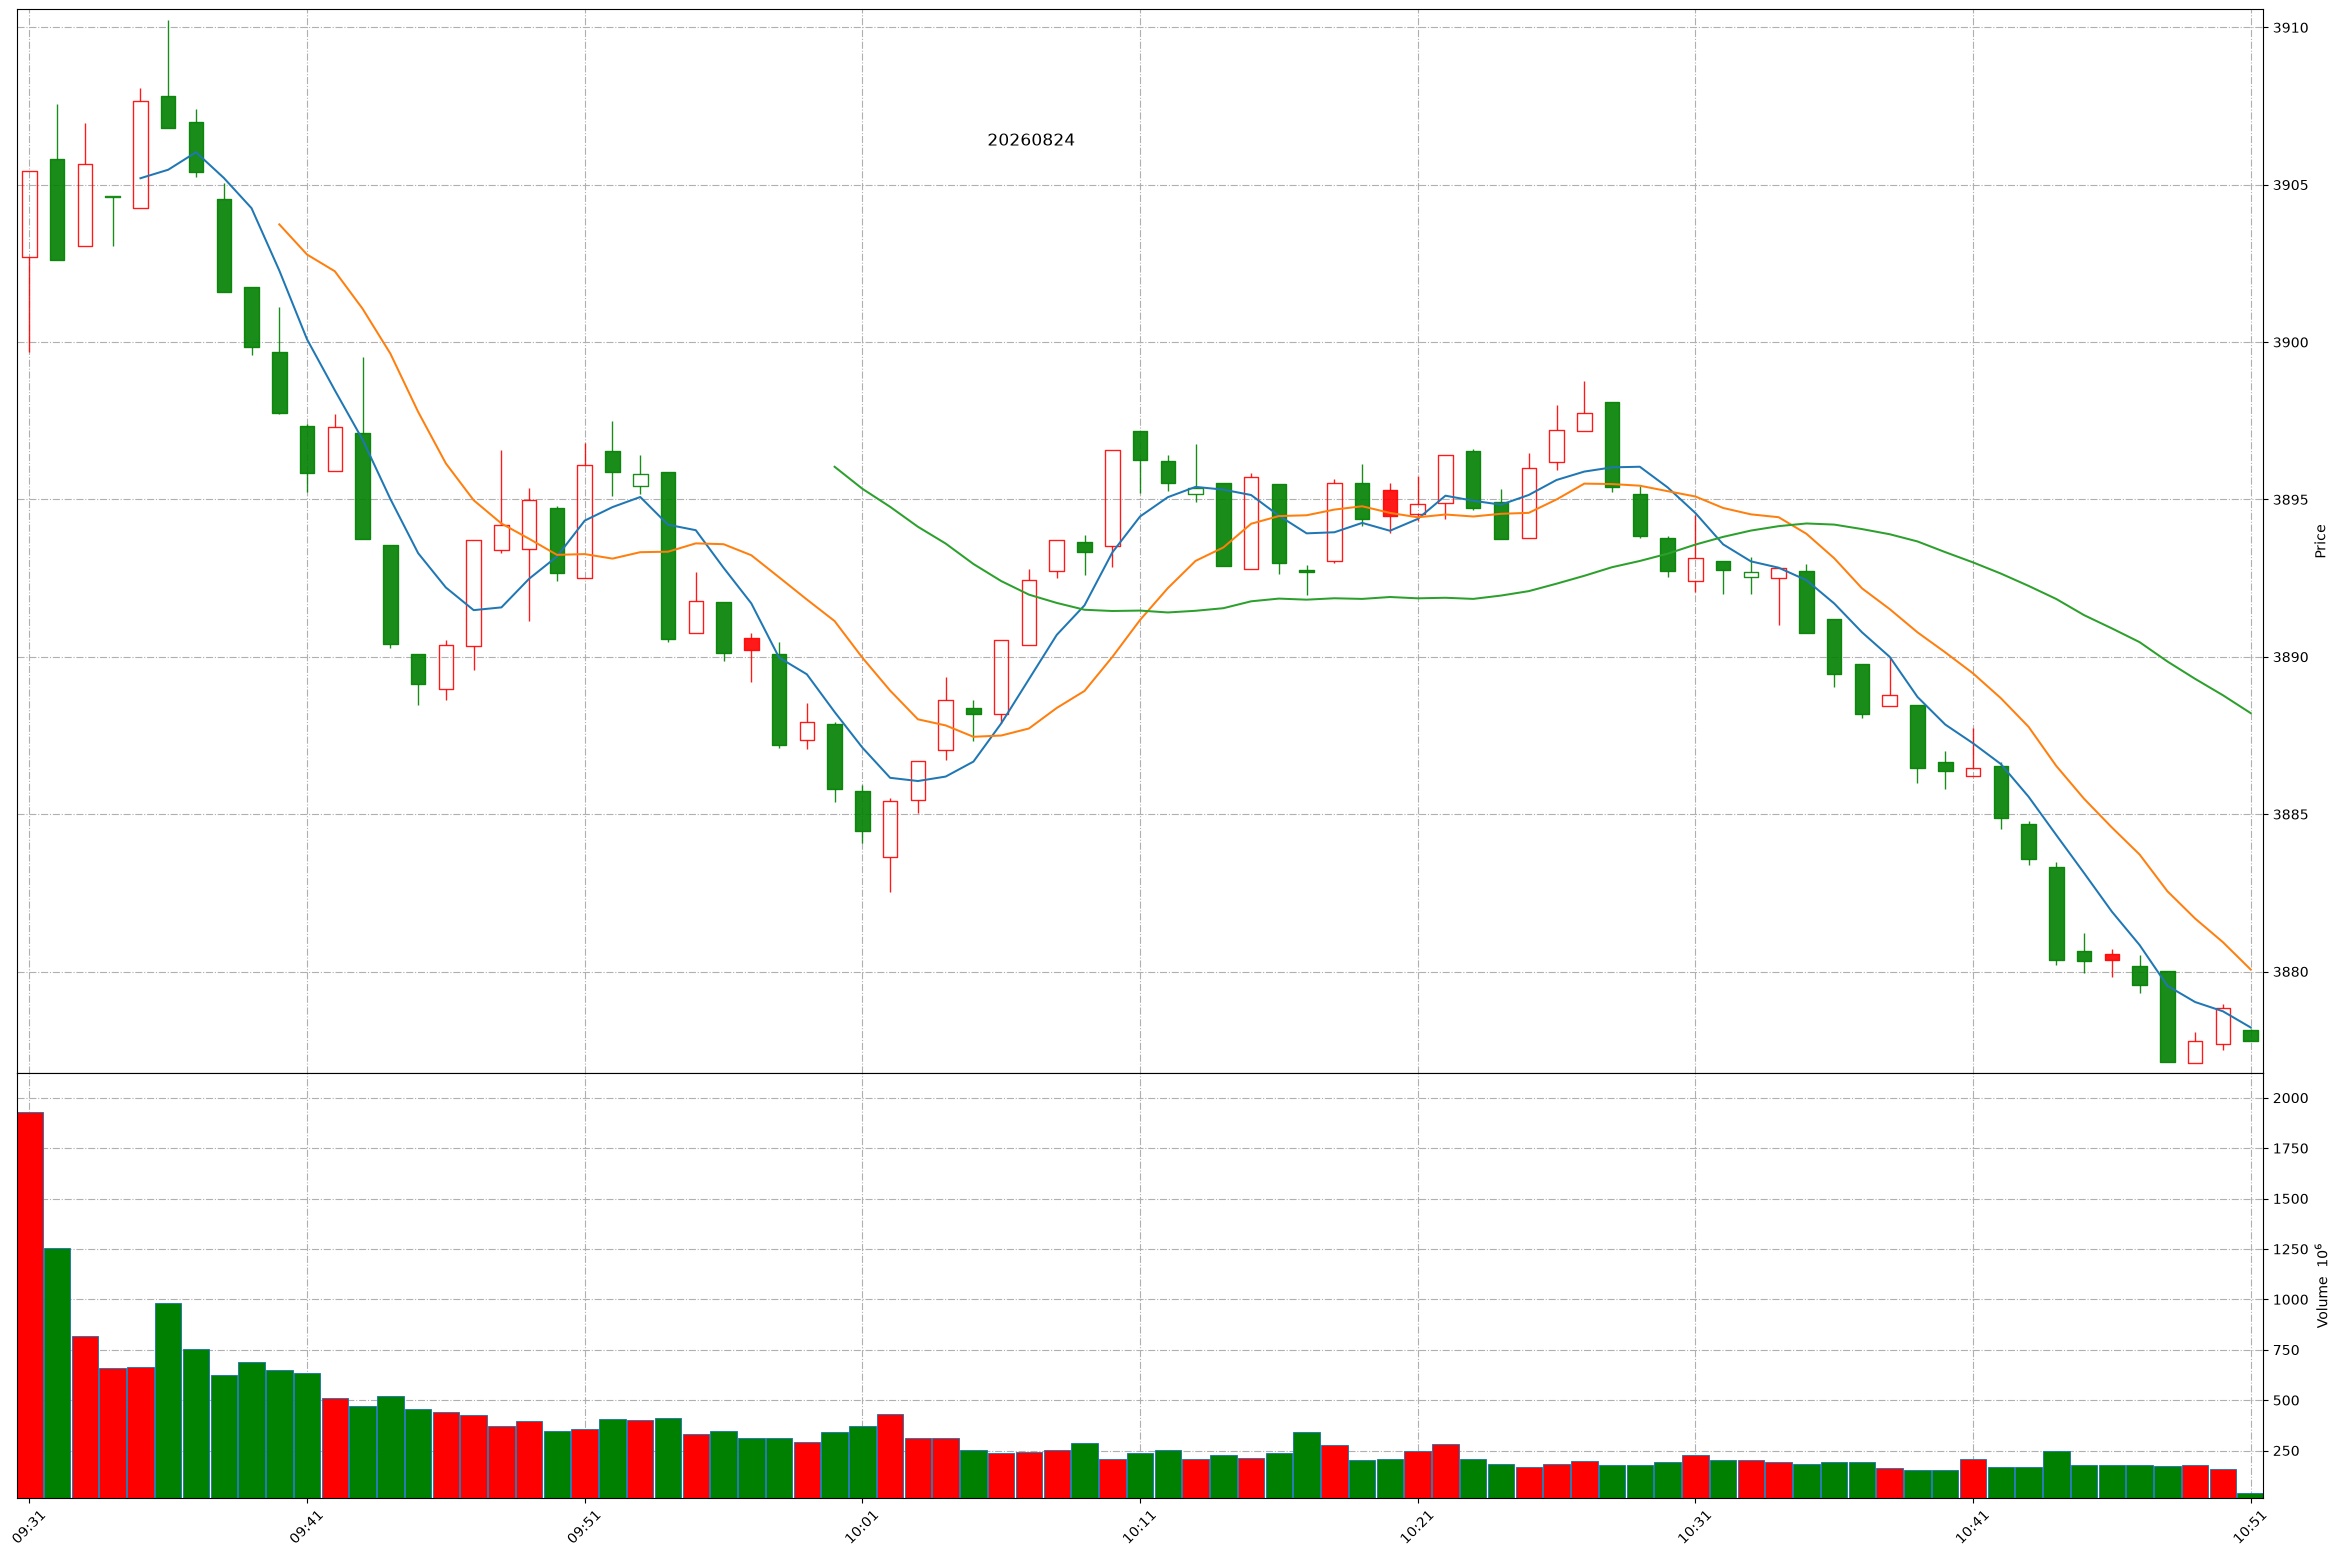
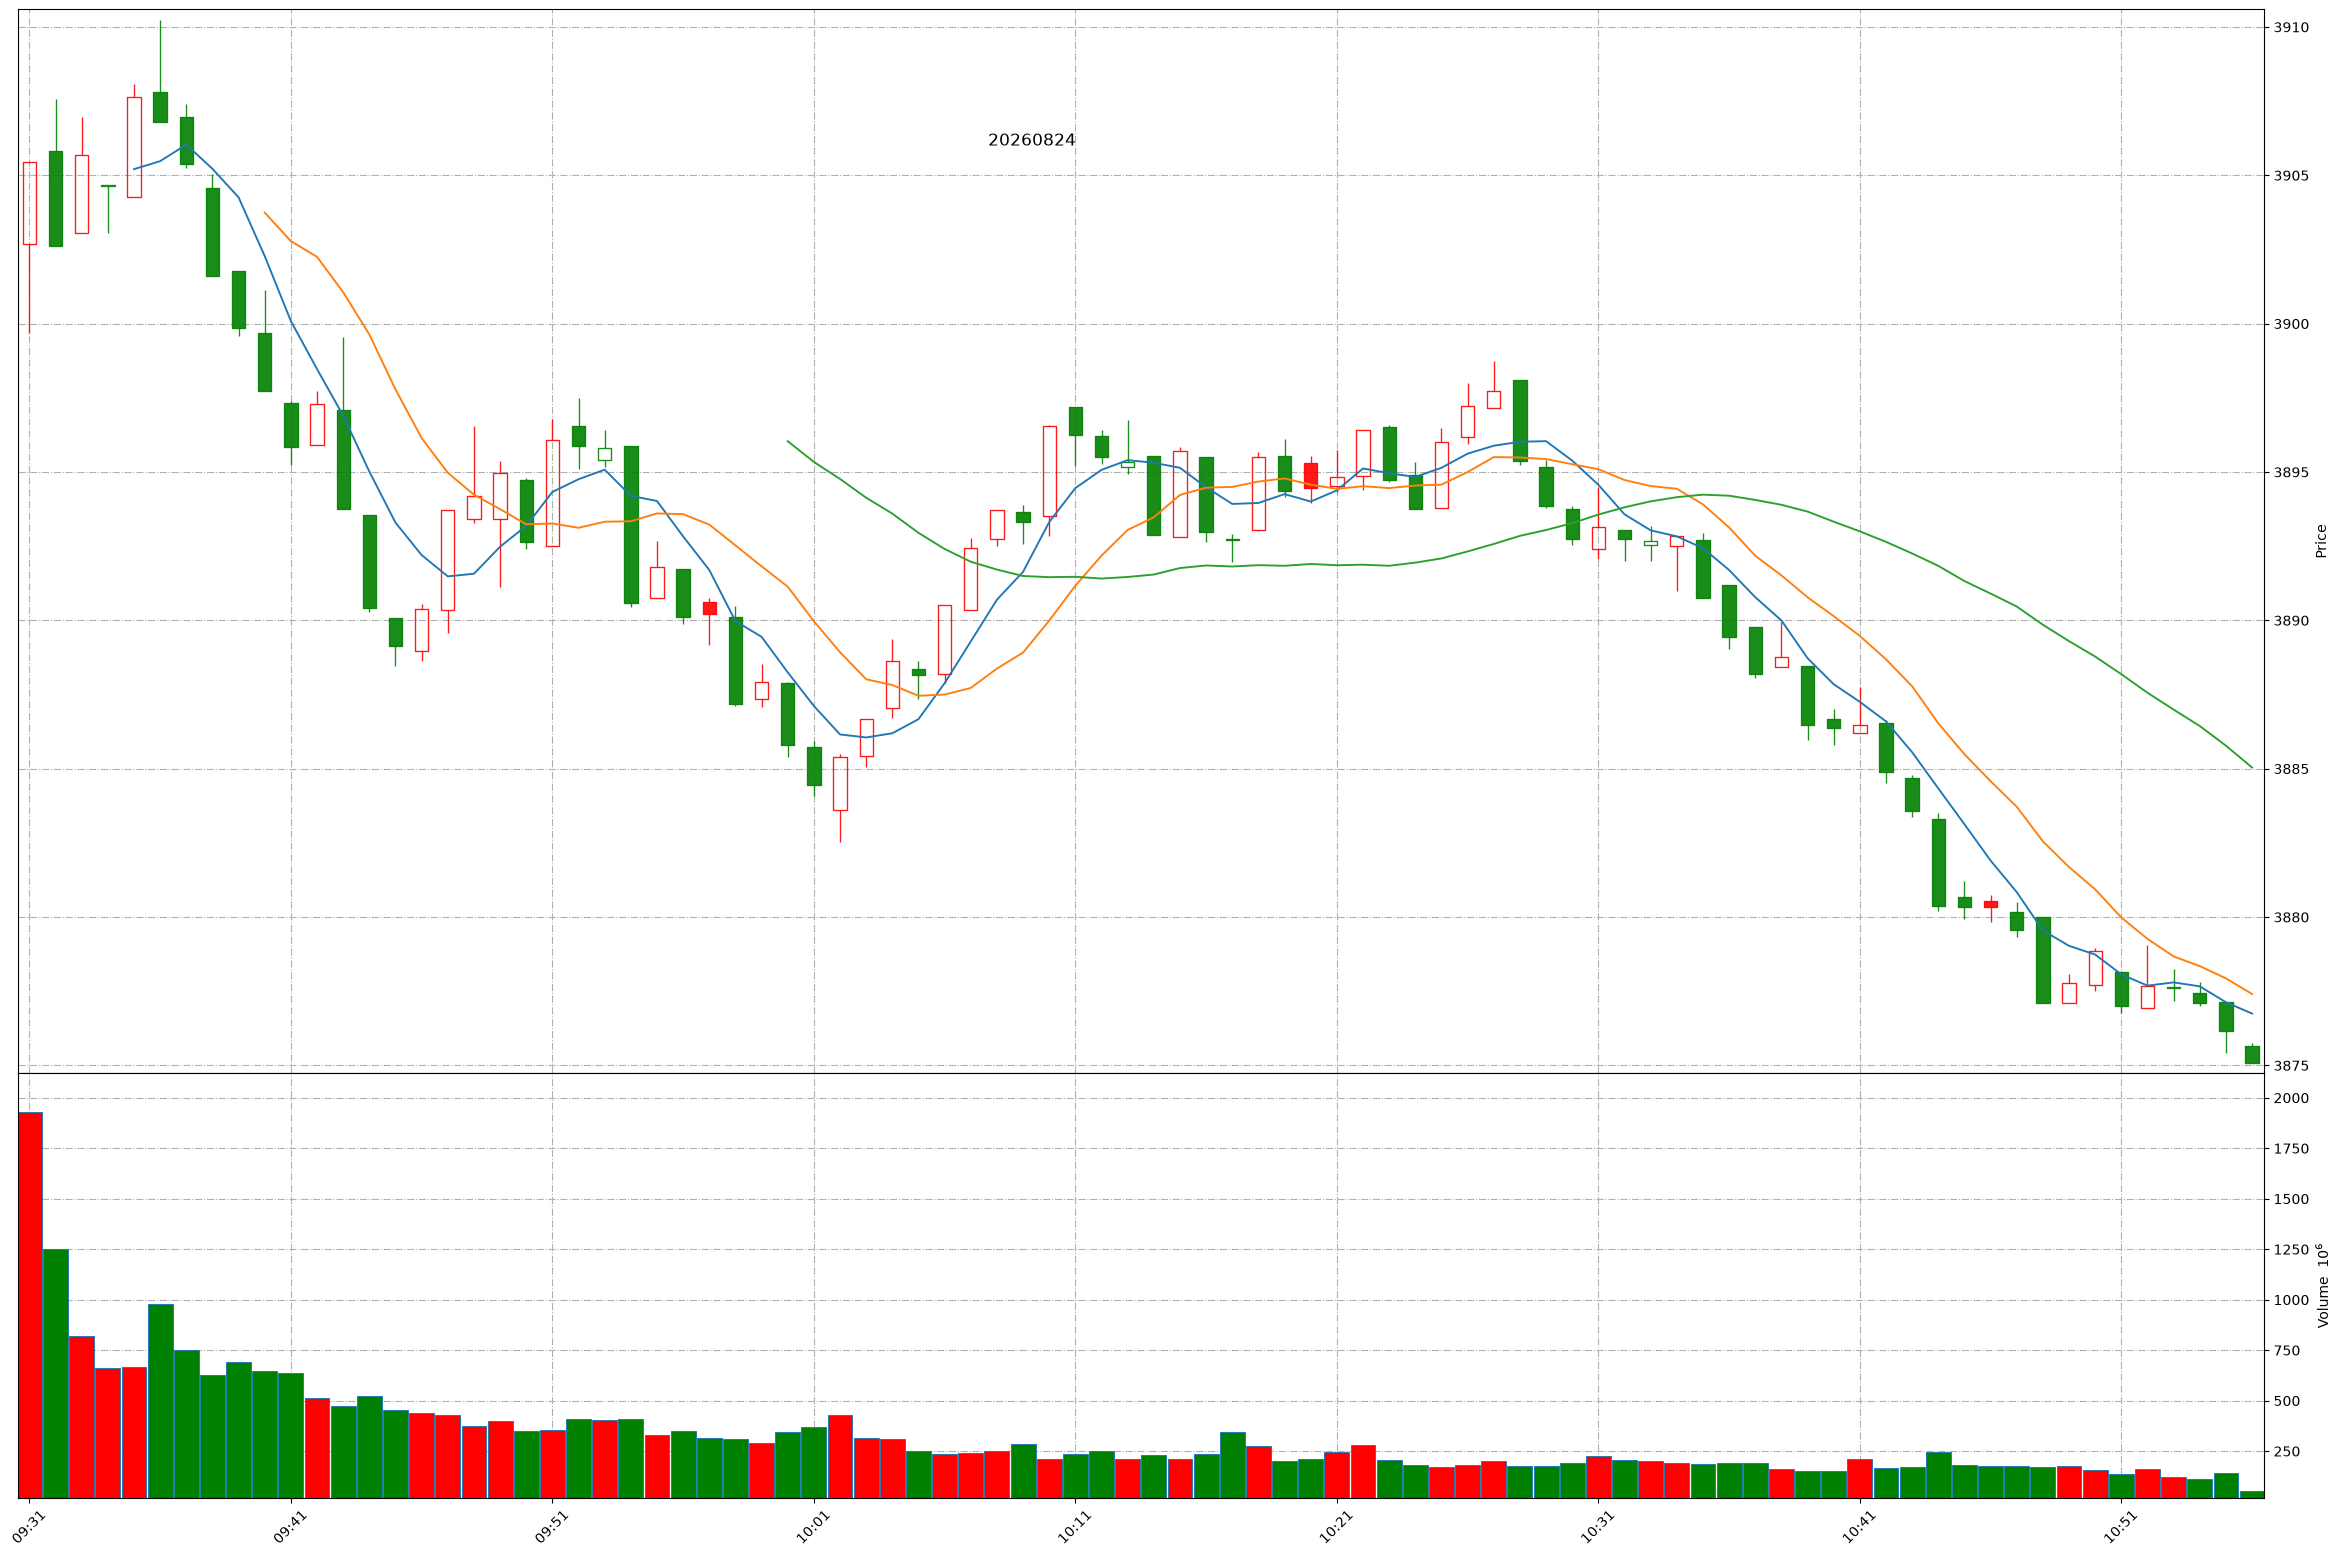
Github action update at 2026-08-24 10:55:46.

diff --git a/README.md b/README.md
@@ -1,11 +1,11 @@
 
 # Daily-A-share-market-quotes 每日 A 股指数（5min 更新）- 20260824
 
-### 上证指数 20260824 10:50
+### 上证指数 20260824 10:55
 ![](./fig/2026/8/20260824-sh000001.png)
 
-### 深证成指 20260824 10:50
+### 深证成指 20260824 10:55
 ![](./fig/2026/8/20260824-sz399001.png)
 
-### 北证50 20260824 10:50
+### 北证50 20260824 10:55
 ![](./fig/2026/8/20260824-bj899050.png)
